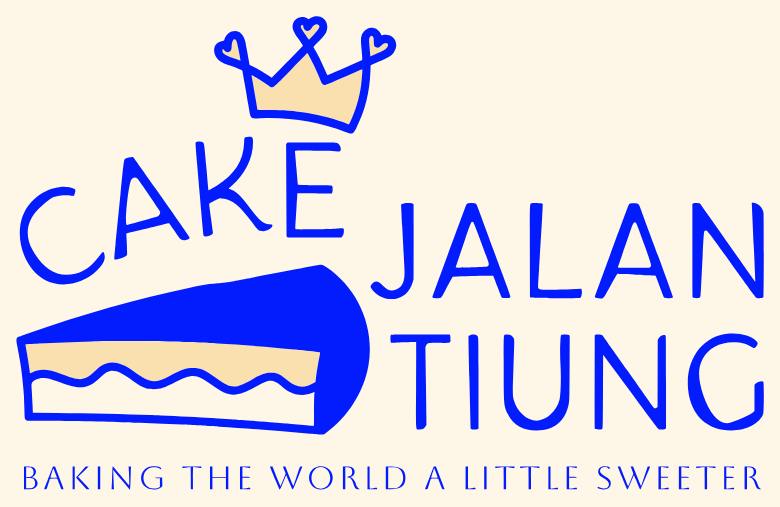
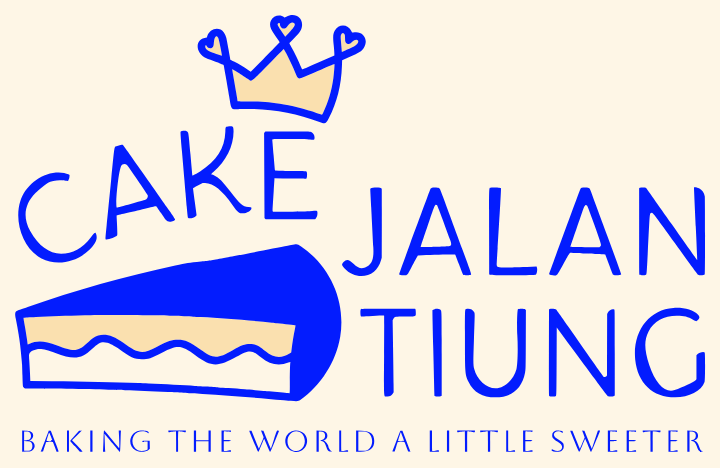
Say each thing once in the order emails
The address, the shop's name, the status, the customer's name, "paid" and the order code each
appeared two or three times. The progress bar is gone too: an email cannot update, so it would
show Paid long after the order moved on, and Follow your order shows the live state. The
lockup drops to its 240px minimum with a tighter band, lifting the code and pick-up time.

diff --git a/src/orders/email.ts b/src/orders/email.ts
@@ -4,7 +4,7 @@
 import {color, space, tracking, typeScale, weight, type TypeRole} from '../system/tokens';
 import {formatShopDateTime} from '../storefront/hours';
 import type {Storefront} from '../storefront/model';
-import {CUSTOMER_STEPS, SOLD_STATUSES, customerCopy, formatRM, orderCode, type OrderStatus, type PricedLine} from './model';
+import {SOLD_STATUSES, customerCopy, formatRM, orderCode, type OrderStatus, type PricedLine} from './model';
 
 /** What an email needs to know about its order. */
 export type EmailOrder = {
@@ -28,8 +28,6 @@ type Page = {
   after: string;
   /** Whether to list what was bought: the receipt does, the ready note only names the code. */
   receipt: boolean;
-  /** Where the progress bar stands, as on the order's page. */
-  step: OrderStatus;
   /** The ready note's singing Burung Tiung, beside its heading. */
   bird: boolean;
 };
@@ -44,11 +42,10 @@ export const ORDER_EMAILS = {
     page: {
       subject: (code, pickup) => `Receipt for order ${code} · pick-up ${pickup}`,
       heading: customerCopy('paid').title,
-      lead: (firstName) => `Thank you, ${firstName}. Your order is paid and the kitchen has it.`,
+      lead: (firstName) => `Thank you, ${firstName}. The kitchen has it.`,
       action: 'Follow your order',
       after: 'We’ll email you again when it’s ready.',
       receipt: true,
-      step: 'paid',
       bird: false,
     },
   },
@@ -58,11 +55,10 @@ export const ORDER_EMAILS = {
     page: {
       subject: (code) => `Order ${code} is ready to collect`,
       heading: customerCopy('ready').title,
-      lead: (firstName) => `${firstName}, your order is ready.`,
+      lead: (firstName) => `${firstName}, it’s waiting for you at the counter.`,
       action: 'Open your order',
-      after: 'When you reach the shop, tap I’m here on your order page, or give your code at the counter.',
+      after: 'When you arrive, tap I’m here on your order page or show this code.',
       receipt: false,
-      step: 'ready',
       bird: true,
     },
   },
@@ -79,7 +75,7 @@ const escape = (value: string) =>
  * mail apps show no SVG. Rerun `pnpm email-art` after changing a size.
  */
 const ART = {
-  lockup: {src: '/email/lockup.png', width: 260, height: 169, alt: 'Cake Jalan Tiung, baking the world a little sweeter'},
+  lockup: {src: '/email/lockup.png', width: 240, height: 156, alt: 'Cake Jalan Tiung, baking the world a little sweeter'},
   tiung: {src: '/email/tiung.png', width: 112, height: 119, alt: ''},
   icon: {src: '/email/tiung-icon.png', width: 32, height: 34, alt: ''},
 } as const;
@@ -155,32 +151,22 @@ export function orderEmail(kind: OrderEmailKind, order: EmailOrder, store: Store
     `Order code: ${code}`,
     '',
     `Pick-up: ${pickup}`,
-    `${store.name}, ${address}`,
+    address,
     `Map: ${store.mapHref}`,
-    ...(page.receipt ? ['', 'Your order', ...lines.map((line) => `${line.label}  ${plainRM(line.amount)}`), `Total paid  ${plainRM(formatRM(order.totalSen))}`] : []),
+    ...(page.receipt ? ['', 'Your order', ...lines.map((line) => `${line.label}  ${plainRM(line.amount)}`), `Total  ${plainRM(formatRM(order.totalSen))}`] : []),
     ...(paid ? [`Paid ${paid}`] : []),
     ...(note ? ['', `Your note: ${note}`] : []),
     '',
     `${page.action}: ${link}`,
     '',
     page.after,
-    `Questions? Call ${store.phone.display} and give the code ${code}.`,
+    `Questions? Call ${store.phone.display}.`,
     '',
     store.signOff,
     ...(store.legalName ? [store.legalName] : []),
   ].join('\n');
 
-  const reached = CUSTOMER_STEPS.findIndex((step) => step.status === page.step);
-  const progress = `<table role="presentation" width="100%" cellpadding="0" cellspacing="0" style="margin-top: ${space.md}px;"><tr>
-${CUSTOMER_STEPS.map(
-  (step, index) =>
-    `<td width="25%" valign="top" style="padding-right: ${index < CUSTOMER_STEPS.length - 1 ? space.xs : 0}px;">
-<p style="margin: 0; border-top: ${RULE}px solid ${index <= reached ? color.ink : color['cream-400']}; padding-top: ${space.xs}px; ${type('caption', index <= reached ? color.ink : color.muted)}${index === reached ? ` font-weight: ${weight.medium};` : ''}">${escape(step.label)}</p>
-</td>`,
-).join('\n')}
-</tr></table>`;
-
-  const heading = `<p style="margin: 0 0 ${space.xs}px; ${type('label', color.muted)}">Order · ${escape(firstName)}</p>
+  const heading = `<p style="margin: 0 0 ${space.xs}px; ${type('label', color.muted)}">Order</p>
 <p style="margin: 0 0 ${space.sm}px; ${type('head', color.ink, 'mono')}">${code}</p>
 <p style="margin: 0 0 ${space.xs}px; ${type('subhead')}">${escape(page.heading)}</p>
 <p style="margin: 0; ${type('body')}">${escape(page.lead(firstName))}</p>`;
@@ -198,7 +184,7 @@ ${CUSTOMER_STEPS.map(
         'Your order',
         `<table role="presentation" width="100%" cellpadding="0" cellspacing="0" style="border-collapse: collapse;">
 ${lines.map((line) => `<tr><td style="${cell}">${escape(line.label)}</td><td align="right" style="${cell} ${type('body', color.ink, 'mono')} white-space: nowrap; padding-left: ${space.sm}px;">${line.amount}</td></tr>`).join('\n')}
-<tr><td style="padding-top: ${space.sm}px; ${type('body')} font-weight: ${weight.medium};">Total paid</td><td align="right" style="padding-top: ${space.sm}px; white-space: nowrap; ${type('subhead', color.ink, 'mono')} font-weight: ${weight.medium};">${formatRM(order.totalSen)}</td></tr>
+<tr><td style="padding-top: ${space.sm}px; ${type('body')} font-weight: ${weight.medium};">Total</td><td align="right" style="padding-top: ${space.sm}px; white-space: nowrap; ${type('subhead', color.ink, 'mono')} font-weight: ${weight.medium};">${formatRM(order.totalSen)}</td></tr>
 </table>
 ${paid ? `<p style="margin: ${space.xs}px 0 0; ${type('caption', color.muted, 'mono')}">Paid ${escape(paid)}</p>` : ''}
 ${note ? `<table role="presentation" width="100%" cellpadding="0" cellspacing="0" style="margin-top: ${space.md}px;"><tr><td style="padding: ${space.sm}px; background: ${color['cream-100']};">
@@ -233,13 +219,12 @@ ${note ? `<table role="presentation" width="100%" cellpadding="0" cellspacing="0
 <tr><td class="frame" align="center" style="padding: ${space.lg}px ${space.sm}px;">
 <table role="presentation" width="${CARD}" cellpadding="0" cellspacing="0" style="width: 100%; max-width: ${CARD}px; background: ${color.paper}; font-family: ${FONTS.sans}; ${type('body')}">
 
-<tr><td class="px" align="center" style="padding: ${space.lg}px ${space.lg}px ${space.md}px; background: ${color['cream-100']};">
+<tr><td class="px" align="center" style="padding: ${space.md}px ${space.lg}px 0; background: ${color['cream-100']};">
 <a href="${escape(origin)}" style="text-decoration: none;">${image(origin, ART.lockup)}</a>
 </td></tr>
 
-<tr><td class="px" style="padding: ${space.md}px ${space.lg}px ${space.lg}px; background: ${color['cream-100']};">
+<tr><td class="px" style="padding: ${space.sm}px ${space.lg}px ${space.lg}px; background: ${color['cream-100']};">
 ${hero}
-${progress}
 </td></tr>
 
 <tr><td style="height: ${space.lg}px; line-height: ${space.lg}px; font-size: 0;">&nbsp;</td></tr>
@@ -247,7 +232,7 @@ ${progress}
 ${section(
   'Pick-up',
   `<p style="margin: 0 0 ${space.xs}px; ${type('subhead', color.ink, 'mono')}">${escape(pickup)}</p>
-<p style="margin: 0 0 ${space.xs}px; ${type('body')}">${escape(store.name)}, ${escape(address)}</p>
+<p style="margin: 0 0 ${space.xs}px; ${type('body')}">${escape(address)}</p>
 <p style="margin: 0; ${type('body')}"><a href="${escape(store.mapHref)}" style="color: ${color.blue}; text-decoration: none;">Open in Google Maps ↗</a></p>`,
 )}
 
@@ -258,7 +243,7 @@ ${receipt}
 <a href="${escape(link)}" style="display: block; padding: ${space.sm}px; ${type('body', color.paper)} font-weight: ${weight.medium}; text-decoration: none; text-align: center;">${escape(page.action)}</a>
 </td></tr></table>
 <p style="margin: ${space.sm}px 0 0; ${type('body')}">${escape(page.after)}</p>
-<p style="margin: ${space.xs}px 0 0; ${type('caption', color.muted)}">Questions? Call <a href="${escape(store.phone.href)}" style="color: ${color.blue}; text-decoration: none;">${escape(store.phone.display)}</a> and give the code ${code}.</p>
+<p style="margin: ${space.xs}px 0 0; ${type('caption', color.muted)}">Questions? Call <a href="${escape(store.phone.href)}" style="color: ${color.blue}; text-decoration: none;">${escape(store.phone.display)}</a>.</p>
 </td></tr>
 
 <tr><td class="px" style="padding: ${space.md}px ${space.lg}px ${space.lg}px; border-top: 1px solid ${color.rule};">
@@ -266,7 +251,6 @@ ${receipt}
 <td valign="middle" style="padding-right: ${space.sm}px;">${image(origin, ART.icon)}</td>
 <td valign="middle">
 <p style="margin: 0; ${type('body')}">${escape(store.signOff)}</p>
-<p style="margin: 0; ${type('caption', color.muted)}">${escape(store.name)} · ${escape(address)}</p>
 ${store.legalName ? `<p style="margin: 0; ${type('caption', color.muted)}">${escape(store.legalName)}</p>` : ''}
 </td>
 </tr></table>

diff --git a/src/orders/notify.test.ts b/src/orders/notify.test.ts
@@ -113,7 +113,7 @@ describe('orderEmail', () => {
 
   it('lists what was bought on the receipt, and links to the order', () => {
     expect(receipt.text).toContain('2 × Croissant  RM 18.00');
-    expect(receipt.text).toContain('Total paid  RM 30.50');
+    expect(receipt.text).toContain('Total  RM 30.50');
     expect(receipt.text).toContain(`https://cakejalantiung.app/order/${ID}`);
     expect(receipt.html).toContain(`href="https://cakejalantiung.app/order/${ID}"`);
   });
